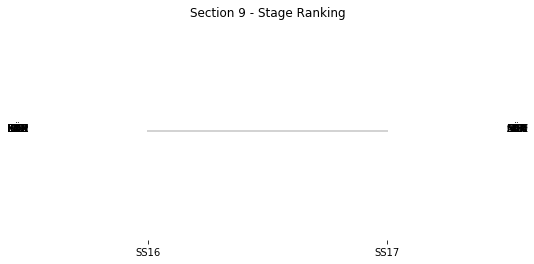
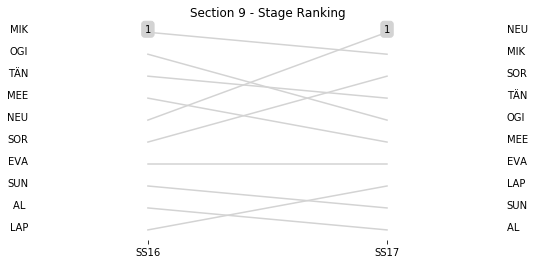
FINAL

diff --git a/Section 9_report.md b/Section 9_report.md
@@ -14,42 +14,46 @@ The full scheduled itinerary for the section was as follows:
 
 
 
+
+
 ### Section 9 Report
 Section 9
 
-![](images/spchart_stage_Section 9.png)
+![](images/spchart_stage_Section 9.png)Section 9
+
+![](images/spchart_overall_Section 9.png)
 Stage Result - SS16
 
-|Driver|            Team             |Elapsed Duration|Position|Class Rank|diffFirst|diffPrev|
-|------|-----------------------------|----------------|--------|----------|---------|--------|
-|SOR   |HYUNDAI SHELL MOBIS WRT      |                |NaN     |NaN       |         |        |
-|OGI   |M-SPORT FORD WORLD RALLY TEAM|                |NaN     |NaN       |         |        |
-|MIK   |HYUNDAI SHELL MOBIS WRT      |                |NaN     |NaN       |         |        |
-|NEU   |HYUNDAI SHELL MOBIS WRT      |                |NaN     |NaN       |         |        |
-|LAP   |TOYOTA GAZOO RACING WRT      |                |NaN     |NaN       |         |        |
-|EVA   |M-SPORT FORD WORLD RALLY TEAM|                |NaN     |NaN       |         |        |
-|MEE   |CITROEN TOTAL ABU DHABI WRT  |                |NaN     |NaN       |         |        |
-|SUN   |M-SPORT FORD WORLD RALLY TEAM|                |NaN     |NaN       |         |        |
-|AL    |CITROEN TOTAL ABU DHABI WRT  |                |NaN     |NaN       |         |        |
-|TÄN   |TOYOTA GAZOO RACING WRT      |                |NaN     |NaN       |         |        |
+|Driver|            Team             |Elapsed Duration|Position|Class Rank|   diffFirst    |    diffPrev    |
+|------|-----------------------------|----------------|-------:|---------:|----------------|----------------|
+|MIK   |HYUNDAI SHELL MOBIS WRT      |00:13:09.5000000|       1|         1|00:00:00        |00:00:00        |
+|OGI   |M-SPORT FORD WORLD RALLY TEAM|00:13:10        |       2|         2|00:00:00.5000000|00:00:00.5000000|
+|TÄN   |TOYOTA GAZOO RACING WRT      |00:13:11.6000000|       3|         3|00:00:02.1000000|00:00:01.6000000|
+|MEE   |CITROEN TOTAL ABU DHABI WRT  |00:13:12.3000000|       4|         4|00:00:02.8000000|00:00:00.7000000|
+|NEU   |HYUNDAI SHELL MOBIS WRT      |00:13:14.1000000|       5|         5|00:00:04.6000000|00:00:01.8000000|
+|SOR   |HYUNDAI SHELL MOBIS WRT      |00:13:14.4000000|       6|         6|00:00:04.9000000|00:00:00.3000000|
+|EVA   |M-SPORT FORD WORLD RALLY TEAM|00:13:16.1000000|       7|         7|00:00:06.6000000|00:00:01.7000000|
+|SUN   |M-SPORT FORD WORLD RALLY TEAM|00:13:31.9000000|       9|         8|00:00:22.4000000|00:00:02.1000000|
+|AL    |CITROEN TOTAL ABU DHABI WRT  |00:14:14.2000000|      16|         9|00:01:04.7000000|00:00:00.6000000|
+|LAP   |TOYOTA GAZOO RACING WRT      |00:14:32.9000000|      19|        10|00:01:23.4000000|00:00:14.7000000|
 
 
 
 
 Stage Result - SS17
 
-|Driver|            Team             |Elapsed Duration|Position|Class Rank|diffFirst|diffPrev|
-|------|-----------------------------|----------------|--------|----------|---------|--------|
-|SOR   |HYUNDAI SHELL MOBIS WRT      |                |NaN     |NaN       |         |        |
-|OGI   |M-SPORT FORD WORLD RALLY TEAM|                |NaN     |NaN       |         |        |
-|MIK   |HYUNDAI SHELL MOBIS WRT      |                |NaN     |NaN       |         |        |
-|LAP   |TOYOTA GAZOO RACING WRT      |                |NaN     |NaN       |         |        |
-|MEE   |CITROEN TOTAL ABU DHABI WRT  |                |NaN     |NaN       |         |        |
-|SUN   |M-SPORT FORD WORLD RALLY TEAM|                |NaN     |NaN       |         |        |
-|AL    |CITROEN TOTAL ABU DHABI WRT  |                |NaN     |NaN       |         |        |
-|EVA   |M-SPORT FORD WORLD RALLY TEAM|                |NaN     |NaN       |         |        |
-|NEU   |HYUNDAI SHELL MOBIS WRT      |                |NaN     |NaN       |         |        |
-|TÄN   |TOYOTA GAZOO RACING WRT      |                |NaN     |NaN       |         |        |
+|Driver|            Team             |Elapsed Duration|Position|Class Rank|   diffFirst    |    diffPrev    |
+|------|-----------------------------|----------------|-------:|---------:|----------------|----------------|
+|NEU   |HYUNDAI SHELL MOBIS WRT      |00:18:31.3000000|       1|         1|00:00:00        |00:00:00        |
+|MIK   |HYUNDAI SHELL MOBIS WRT      |00:18:32.8000000|       2|         2|00:00:01.5000000|00:00:01.5000000|
+|SOR   |HYUNDAI SHELL MOBIS WRT      |00:18:37.4000000|       3|         3|00:00:06.1000000|00:00:04.6000000|
+|TÄN   |TOYOTA GAZOO RACING WRT      |00:18:39.4000000|       4|         4|00:00:08.1000000|00:00:02        |
+|OGI   |M-SPORT FORD WORLD RALLY TEAM|00:18:43.3000000|       5|         5|00:00:12        |00:00:03.9000000|
+|MEE   |CITROEN TOTAL ABU DHABI WRT  |00:18:43.5000000|       6|         6|00:00:12.2000000|00:00:00.2000000|
+|EVA   |M-SPORT FORD WORLD RALLY TEAM|00:18:45.4000000|       7|         7|00:00:14.1000000|00:00:01.9000000|
+|LAP   |TOYOTA GAZOO RACING WRT      |00:19:01.1000000|       9|         8|00:00:29.8000000|00:00:15.5000000|
+|SUN   |M-SPORT FORD WORLD RALLY TEAM|00:19:23.3000000|      11|         9|00:00:52        |00:00:06        |
+|AL    |CITROEN TOTAL ABU DHABI WRT  |00:20:29.6000000|      18|        10|00:01:58.3000000|00:00:15.9000000|
 
 
 

diff --git a/Section 10_report.md b/Section 10_report.md
@@ -5,7 +5,7 @@ This section comprises one special stage (SS18 - Power Stage EL CONDOR (Live TV)
 The full scheduled itinerary for the section was as follows:
 
 	- 12:15:00 TC17B Regrouping OUT  [00:35:00]
-	- 12:18:00 SS18 Power Stage EL CONDOR (Live TV) (16.43km) [00:03:00]
+	- 12:18:00 SS18 Power Stage EL CONDOR (Live TV) (16.43km) [00:05:00]
 	- 14:18:00 TC18A Techical Zone IN (83.87km) [02:00:00]
 	- 14:21:00 TC18B Techical Zone OUT / Service IN  [00:03:00]
 	- 14:31:00 TC18C Service OUT   [00:10:00]
@@ -15,8 +15,18 @@ The full scheduled itinerary for the section was as follows:
 
 Stage Result - SS18
 
-|Driver|Team|Elapsed Duration|Position|Class Rank|diffFirst|diffPrev|
-|------|----|----------------|--------|----------|---------|--------|
+|Driver|            Team             |Elapsed Duration|Position|Class Rank|   diffFirst    |    diffPrev    |
+|------|-----------------------------|----------------|-------:|---------:|----------------|----------------|
+|NEU   |HYUNDAI SHELL MOBIS WRT      |00:13:00.8710000|       1|         1|00:00:00        |00:00:00        |
+|OGI   |M-SPORT FORD WORLD RALLY TEAM|00:13:01.3280000|       2|         2|00:00:00.4570000|00:00:00.4570000|
+|MIK   |HYUNDAI SHELL MOBIS WRT      |00:13:01.5340000|       3|         3|00:00:00.6630000|00:00:00.2060000|
+|TÄN   |TOYOTA GAZOO RACING WRT      |00:13:04.0990000|       4|         4|00:00:03.2280000|00:00:02.5650000|
+|MEE   |CITROEN TOTAL ABU DHABI WRT  |00:13:04.5860000|       5|         5|00:00:03.7150000|00:00:00.4870000|
+|LAP   |TOYOTA GAZOO RACING WRT      |00:13:10.7230000|       6|         6|00:00:09.8520000|00:00:06.1370000|
+|SOR   |HYUNDAI SHELL MOBIS WRT      |00:13:10.7440000|       7|         7|00:00:09.8730000|00:00:00.0210000|
+|EVA   |M-SPORT FORD WORLD RALLY TEAM|00:13:10.7870000|       8|         8|00:00:09.9160000|00:00:00.0430000|
+|SUN   |M-SPORT FORD WORLD RALLY TEAM|00:13:20.8420000|       9|         9|00:00:19.9710000|00:00:10.0550000|
+|AL    |CITROEN TOTAL ABU DHABI WRT  |00:14:12.3590000|      14|        10|00:01:11.4880000|00:00:03.6210000|
 
 
 

diff --git a/SUMMARY.md b/SUMMARY.md
@@ -24,7 +24,6 @@
   - [SS7 - AMBOY - YACANTO (II)](SS7_report.md)
   - [SS8 - SANTA ROSA - SAN AGUSTIN (II)](SS8_report.md)
 
-
 * [Section 6](Section 6_report.md)
   - [SS9 - TANTI - MATADEROS (I) ](SS9_report.md)
   - [SS10 - LOS GIGANTES - CUCHILLA NEVADA (I) - Live TV](SS10_report.md)
@@ -37,3 +36,10 @@
   - [SS13 - TANTI - MATADEROS (II) ](SS13_report.md)
   - [SS14 - LOS GIGANTES - CUCHILLA NEVADA (II) - Live TV](SS14_report.md)
   - [SS15 - CUCHILLA NEVADA - RIO PINTOS (II)](SS15_report.md)
+
+* [Section 9](Section 9_report.md)
+  - [SS16 - COPINA - EL CONDOR (Live TV)](SS16_report.md)
+  - [SS17 - GIULIO CESARE - MINA CLAVERO](SS17_report.md)
+
+* [Section 10](Section 10_report.md)
+  - [SS18 - Power Stage EL CONDOR (Live TV)](SS18_report.md)

diff --git a/SS16_report.md b/SS16_report.md
@@ -1,0 +1,9 @@
+# Stage Progress Chart - Argentina, 2018 - TÄN - SS16
+
+![](images/stage_report_16_TAN.png)
+# Stage Overall Split Delta Chart - Argentina, 2018 - TÄN - SS16
+
+![](images/stage_report_split_delta_16_TAN.png)
+# Stage Within Split Delta Chart - Argentina, 2018 - TÄN - SS16
+
+![](images/stage_report_individual_split_delta_16_TAN.png)

diff --git a/SS17_report.md b/SS17_report.md
@@ -1,0 +1,9 @@
+# Stage Progress Chart - Argentina, 2018 - TÄN - SS17
+
+![](images/stage_report_17_TAN.png)
+# Stage Overall Split Delta Chart - Argentina, 2018 - TÄN - SS17
+
+![](images/stage_report_split_delta_17_TAN.png)
+# Stage Within Split Delta Chart - Argentina, 2018 - TÄN - SS17
+
+![](images/stage_report_individual_split_delta_17_TAN.png)

diff --git a/SS18_report.md b/SS18_report.md
@@ -1,0 +1,9 @@
+# Stage Progress Chart - Argentina, 2018 - TÄN - SS18
+
+![](images/stage_report_18_TAN.png)
+# Stage Overall Split Delta Chart - Argentina, 2018 - TÄN - SS18
+
+![](images/stage_report_split_delta_18_TAN.png)
+# Stage Within Split Delta Chart - Argentina, 2018 - TÄN - SS18
+
+![](images/stage_report_individual_split_delta_18_TAN.png)
